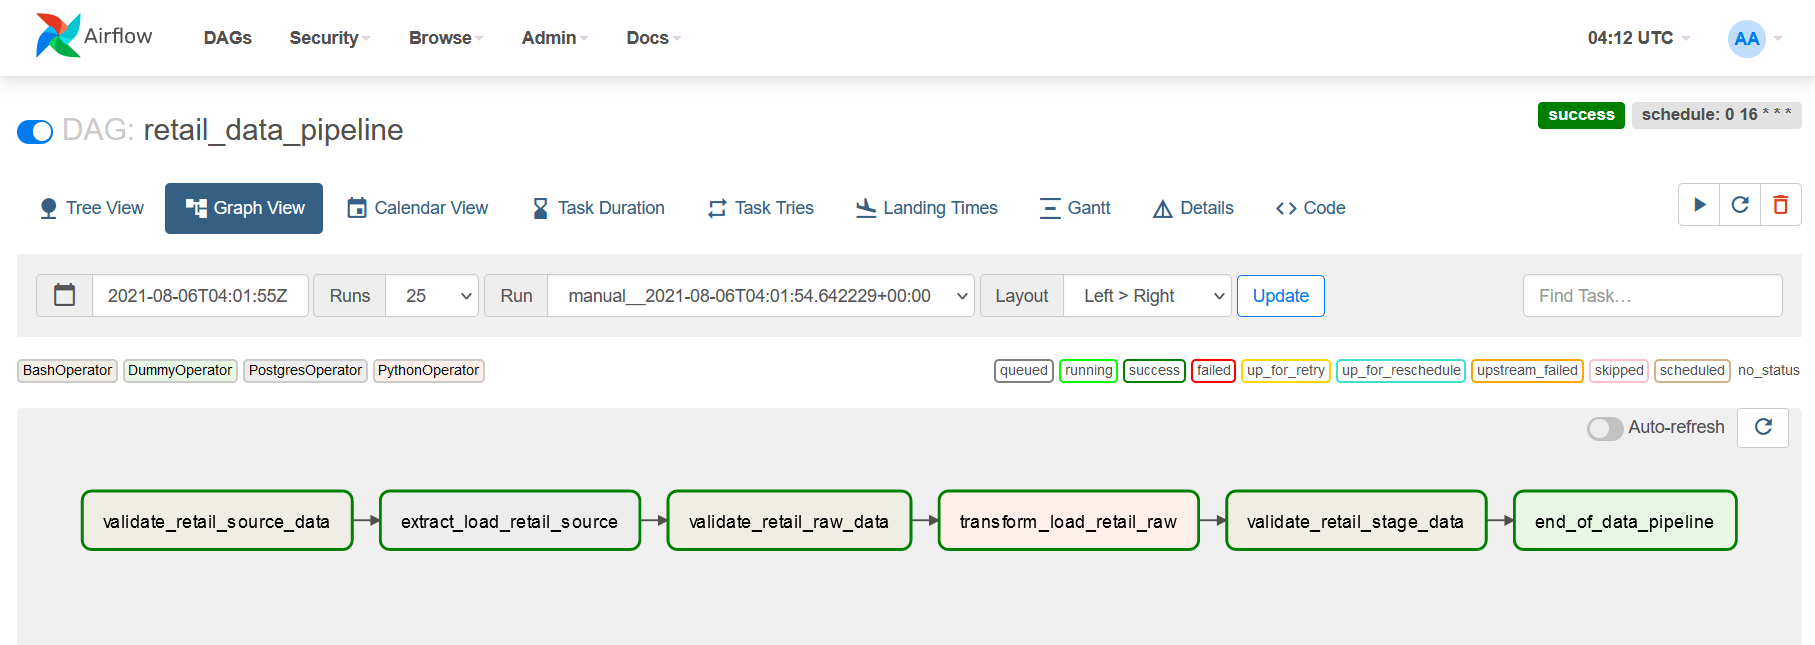
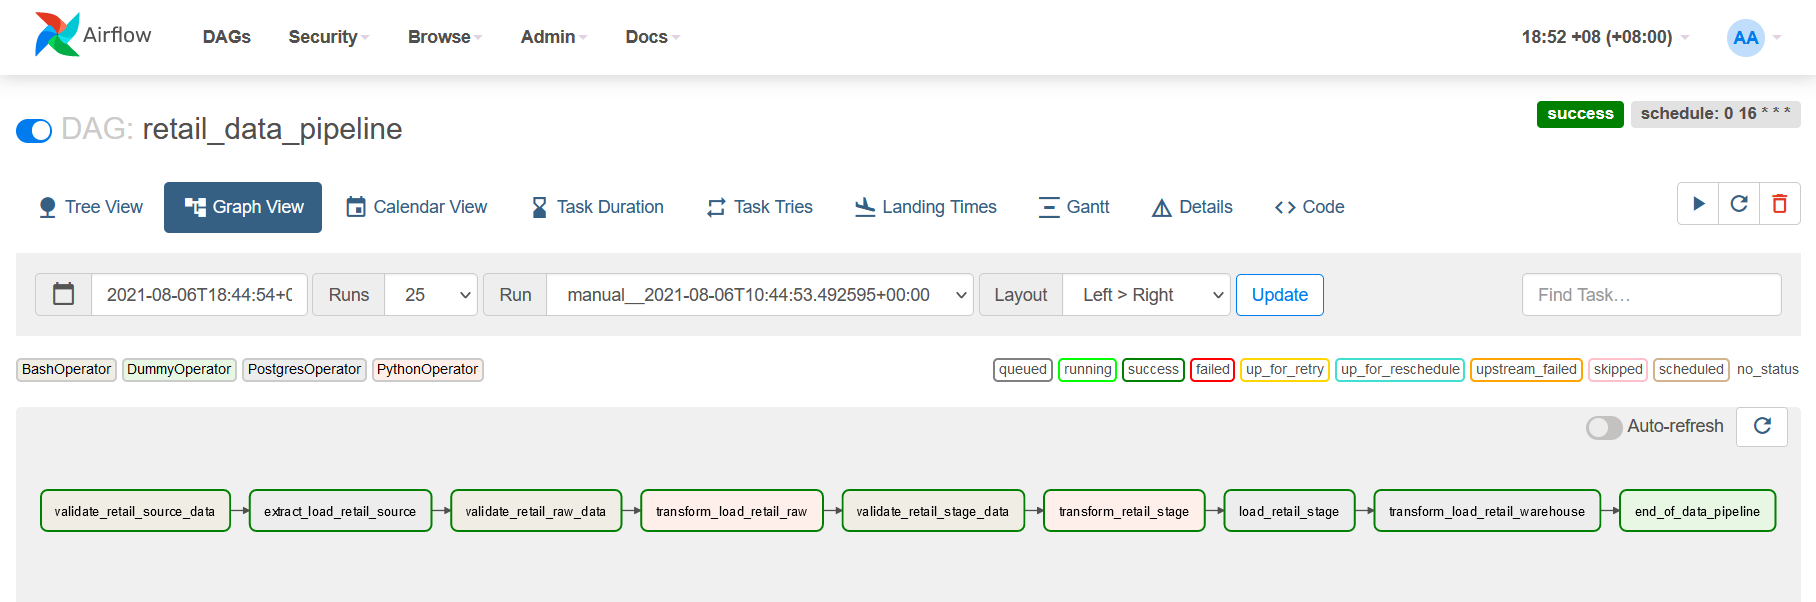
Added validation for warehouse data

diff --git a/dags/scripts/python/postgres_warehouse_conn.py b/dags/scripts/python/postgres_warehouse_conn.py
@@ -1,0 +1,89 @@
+# For GreatEx to connect to tables in the destination PostgresDB
+
+from ruamel import yaml
+
+import great_expectations as ge
+from great_expectations.core.batch import BatchRequest, RuntimeBatchRequest
+
+CONNECTION_STRING = "postgresql+psycopg2://destdb1:destdb1@localhost:5434/destdb"  # Use 5432 if running on Airflow, 5434 if testing locally
+
+context = ge.get_context()
+
+datasource_config = {
+    "name": "retail_warehouse",
+    "class_name": "Datasource",
+    "execution_engine": {
+        "class_name": "SqlAlchemyExecutionEngine",
+        "connection_string": CONNECTION_STRING,
+    },
+    "data_connectors": {
+        "default_runtime_data_connector_name": {
+            "class_name": "RuntimeDataConnector",
+            "batch_identifiers": ["default_identifier_name"],
+        },
+        "default_inferred_data_connector_name": {
+            "class_name": "InferredAssetSqlDataConnector",
+            "name": "whole_table",
+            "include_schema_name": True,  # to specify schema name when calling BatchRequest
+        },
+    },
+}
+
+checkpoint_yaml = """
+name: retail_warehouse_checkpoint
+config_version: 1.0
+template_name:
+module_name: great_expectations.checkpoint
+class_name: Checkpoint
+run_name_template: '%Y%m%d-%H%M%S-my-run-name-template'
+expectation_suite_name:
+batch_request:
+action_list:
+  - name: store_validation_result
+    action:
+      class_name: StoreValidationResultAction
+  - name: store_evaluation_params
+    action:
+      class_name: StoreEvaluationParametersAction
+  - name: update_data_docs
+    action:
+      class_name: UpdateDataDocsAction
+      site_names: []
+evaluation_parameters: {}
+runtime_configuration: {}
+validations:
+  - batch_request:
+      datasource_name: retail_warehouse
+      data_connector_name: default_inferred_data_connector_name
+      data_asset_name: stage.retail_profiling
+      data_connector_query:
+        index: -1
+    expectation_suite_name: retail_source_suite
+profilers: []
+ge_cloud_id:
+"""
+
+# pprint(context.get_available_data_asset_names())
+# pprint(context.list_expectation_suite_names())
+
+context.test_yaml_config(yaml.dump(datasource_config))
+context.add_datasource(**datasource_config)
+
+batch_request = RuntimeBatchRequest(
+    datasource_name="retail_warehouse",
+    data_connector_name="default_runtime_data_connector_name",
+    data_asset_name="stage.retail_profiling",  # this can be anything that identifies this data
+    runtime_parameters={"query": "SELECT * from stage.retail_profiling LIMIT 1000"},
+    batch_identifiers={
+        "default_identifier_name": "First 1000 rows for profiling retail warehouse data"
+    },
+)
+
+validator = context.get_validator(
+    batch_request=batch_request, expectation_suite_name="retail_source_suite"
+)
+
+# print(validator.head())
+
+context.add_checkpoint(**yaml.load(checkpoint_yaml))
+context.run_checkpoint(checkpoint_name="retail_warehouse_checkpoint")

diff --git a/dags/retail_data_pipeline.py b/dags/retail_data_pipeline.py
@@ -87,6 +87,13 @@ load_retail_stage = PostgresOperator(
     params={"from_stage": f"/filesystem/stage/temp/retail_profiling-{date}.csv"},
 )
 
+validate_retail_warehouse_data = BashOperator(
+    dag=dag,
+    task_id="validate_retail_warehouse_data",
+    bash_command="cd /opt/airflow/; \
+great_expectations --v3-api checkpoint run retail_warehouse_checkpoint",
+)
+
 transform_load_retail_warehouse = PostgresOperator(
     dag=dag,
     task_id="transform_load_retail_warehouse",
@@ -105,7 +112,7 @@ end_of_data_pipeline = DummyOperator(dag=dag, task_id="end_of_data_pipeline")
     >> validate_retail_stage_data
     >> transform_retail_stage
     >> load_retail_stage
-    # >> validate_retail_warehouse_data
+    >> validate_retail_warehouse_data
     >> transform_load_retail_warehouse
     # >> validate_retail_dest_data
     >> end_of_data_pipeline

diff --git a/README.md b/README.md
@@ -2,7 +2,9 @@
 
 ## Introduction
 
-This 
+This project looks at how Great Expectations can be used to ensure data quality within an Airflow
+pipeline. All the databases and Airflow components are designed to run within Docker containers, so that
+it's easy to set it up with a `docker-compose` file.
 
 **Repo directory structure:**
 
@@ -14,17 +16,22 @@ This
     │   │   │   ├── filesystem_stage_conn.py
     │   │   │   └── postgres_source_conn.py    
     │   │   └── sql
-    │   │       └── extract_retail_data.sql
+    │   │       ├── extract_load_retail_source.sql
+    │   │       ├── load_retail_stage.sql
+    │   │       └── transform_load_retail_warehouse.sql
     │   ├── retail_data_pipeline.py
     │   └── transformations.py
     ├── database-setup
-    │   └── retail.sql
+    │   ├── destinationdb.sql
+    │   └── sourcedb.sql
     ├── dest-data
     │   └── dummy.txt
     ├── filesystem
     │   ├── raw
     │   │   └── dummy.txt
     │   └── stage
+    │       ├── temp
+    │       ├   └── dummy.txt
     │       └── dummy.txt
     ├── great_expectations
     │   ├── checkpoints
